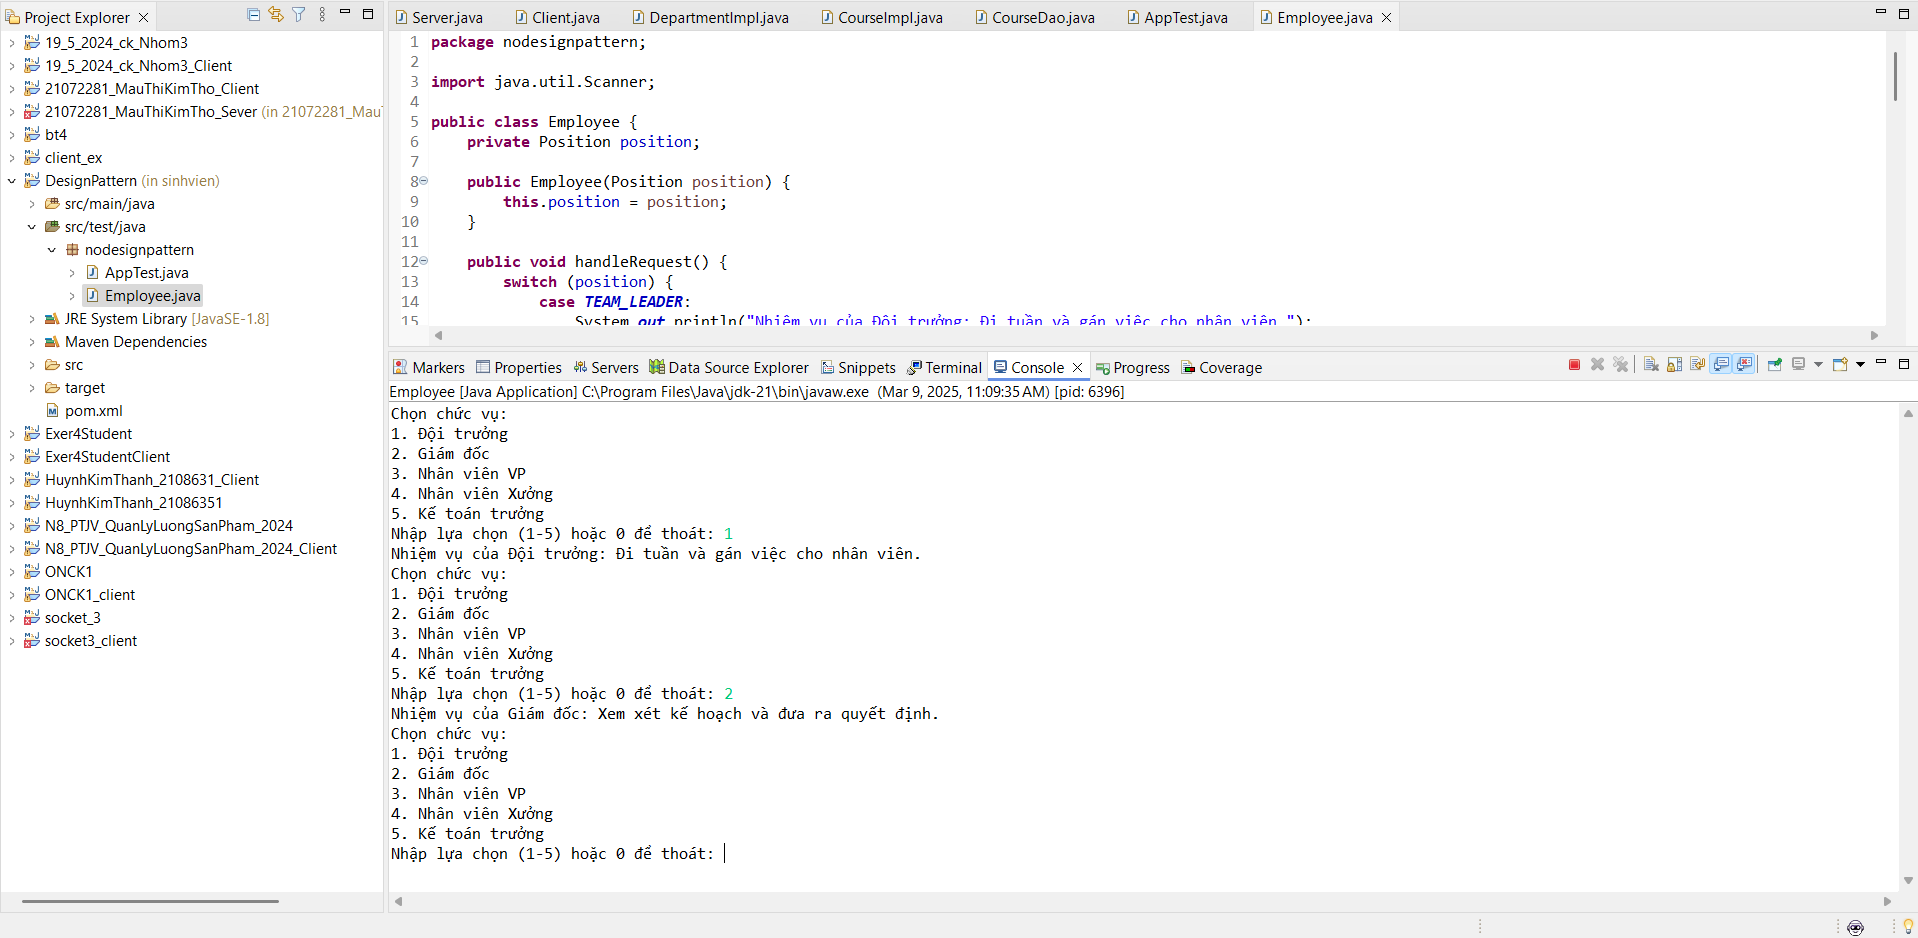
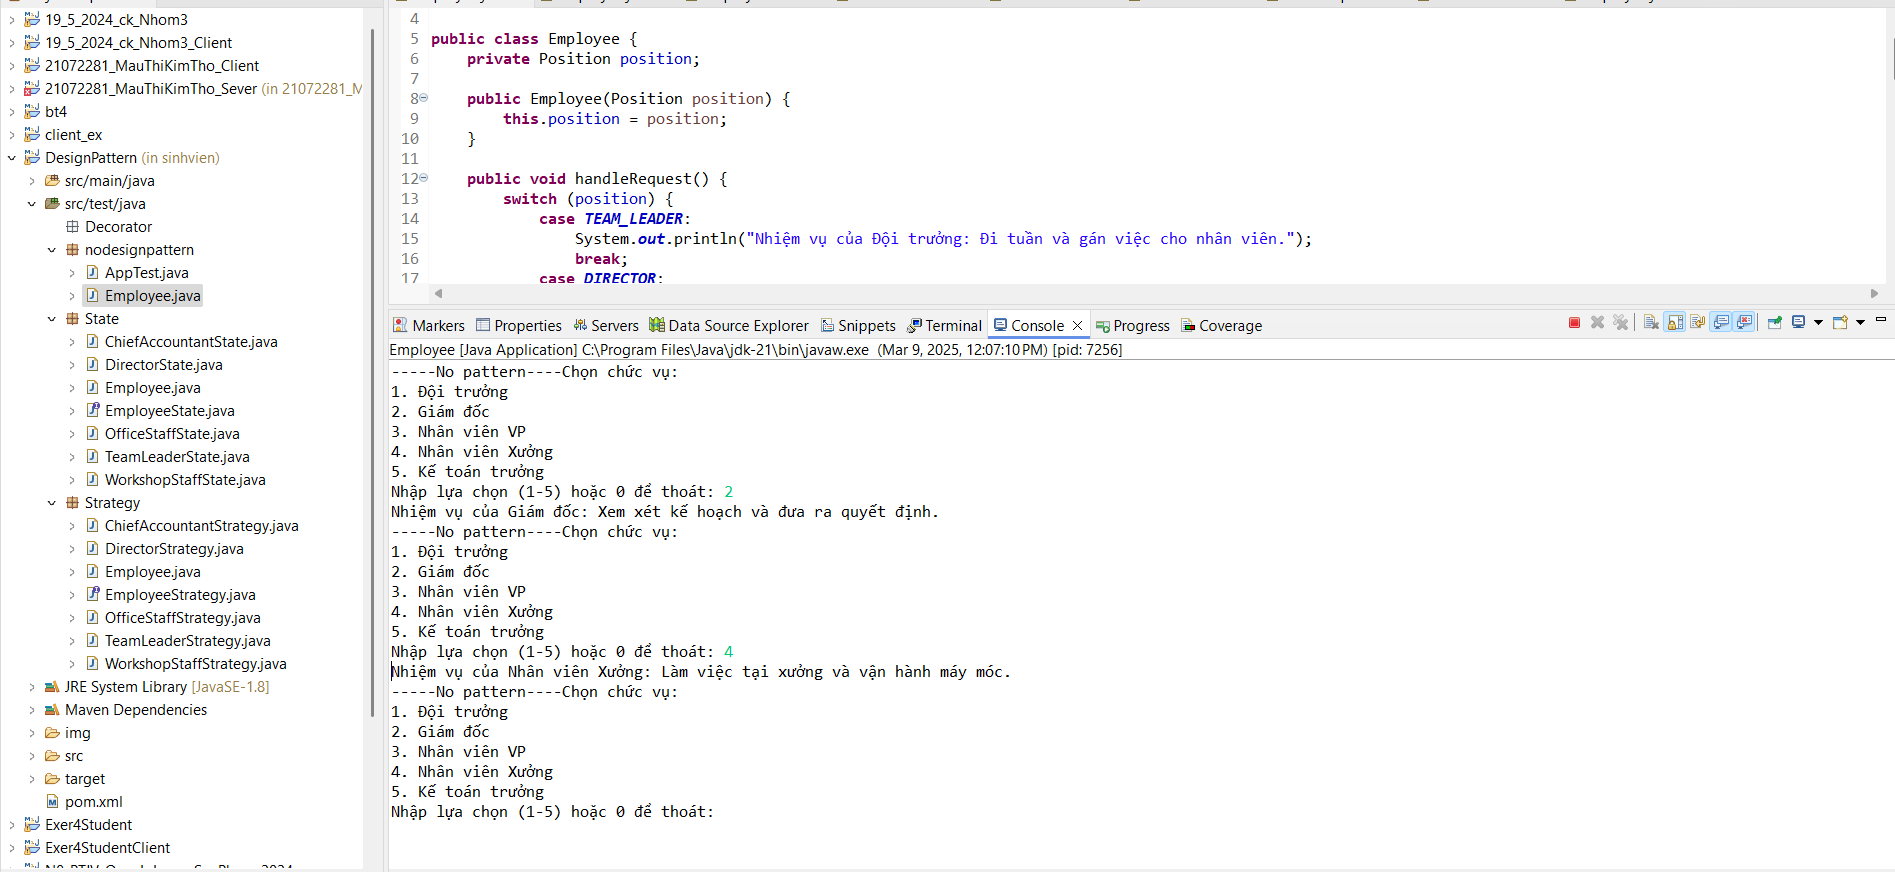
update img nodeignpattern

diff --git a/src/test/java/nodesignpattern/Employee.java b/src/test/java/nodesignpattern/Employee.java
@@ -53,7 +53,7 @@ public class Employee {
         Scanner scanner = new Scanner(System.in);
         Position[] positions = Position.values();
         while (true) {
-            System.out.println("Chọn chức vụ:");
+            System.out.println("-----No pattern----Chọn chức vụ:");
             for (int i = 0; i < positions.length; i++) {
                 System.out.println((i + 1) + ". " + positions[i].getTitle());
             }
